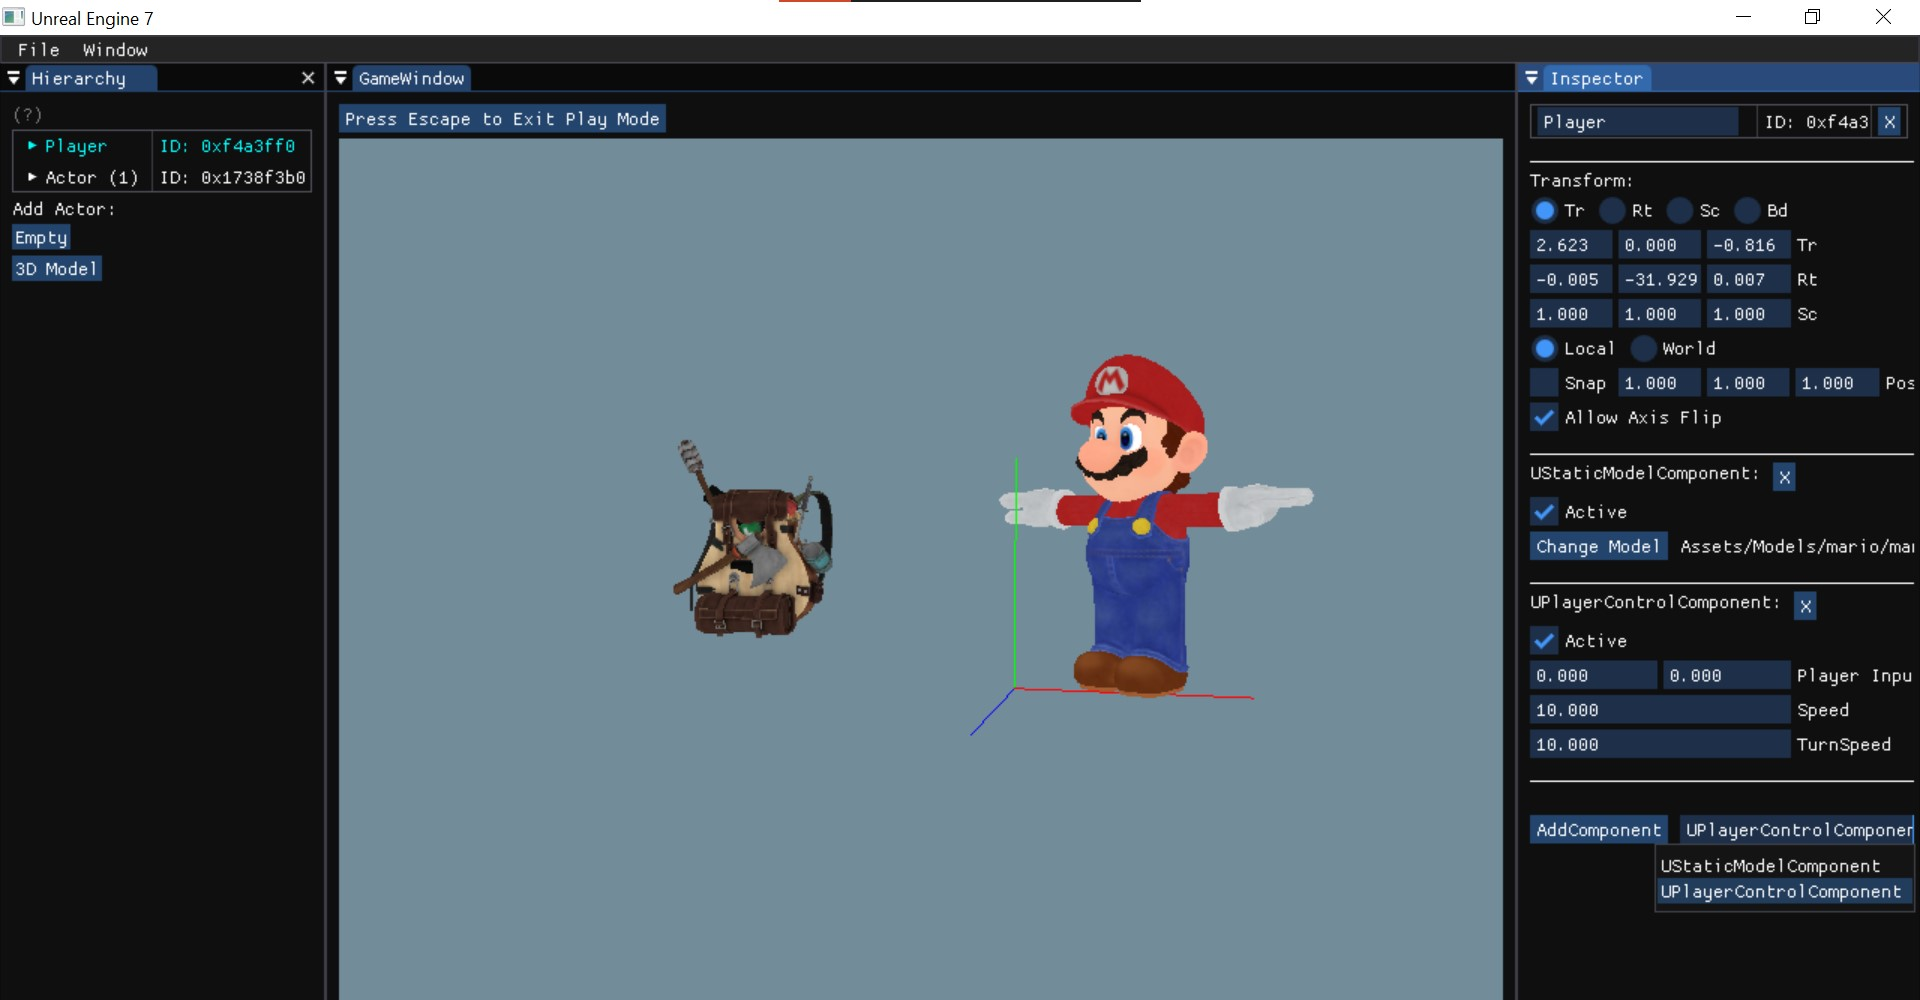
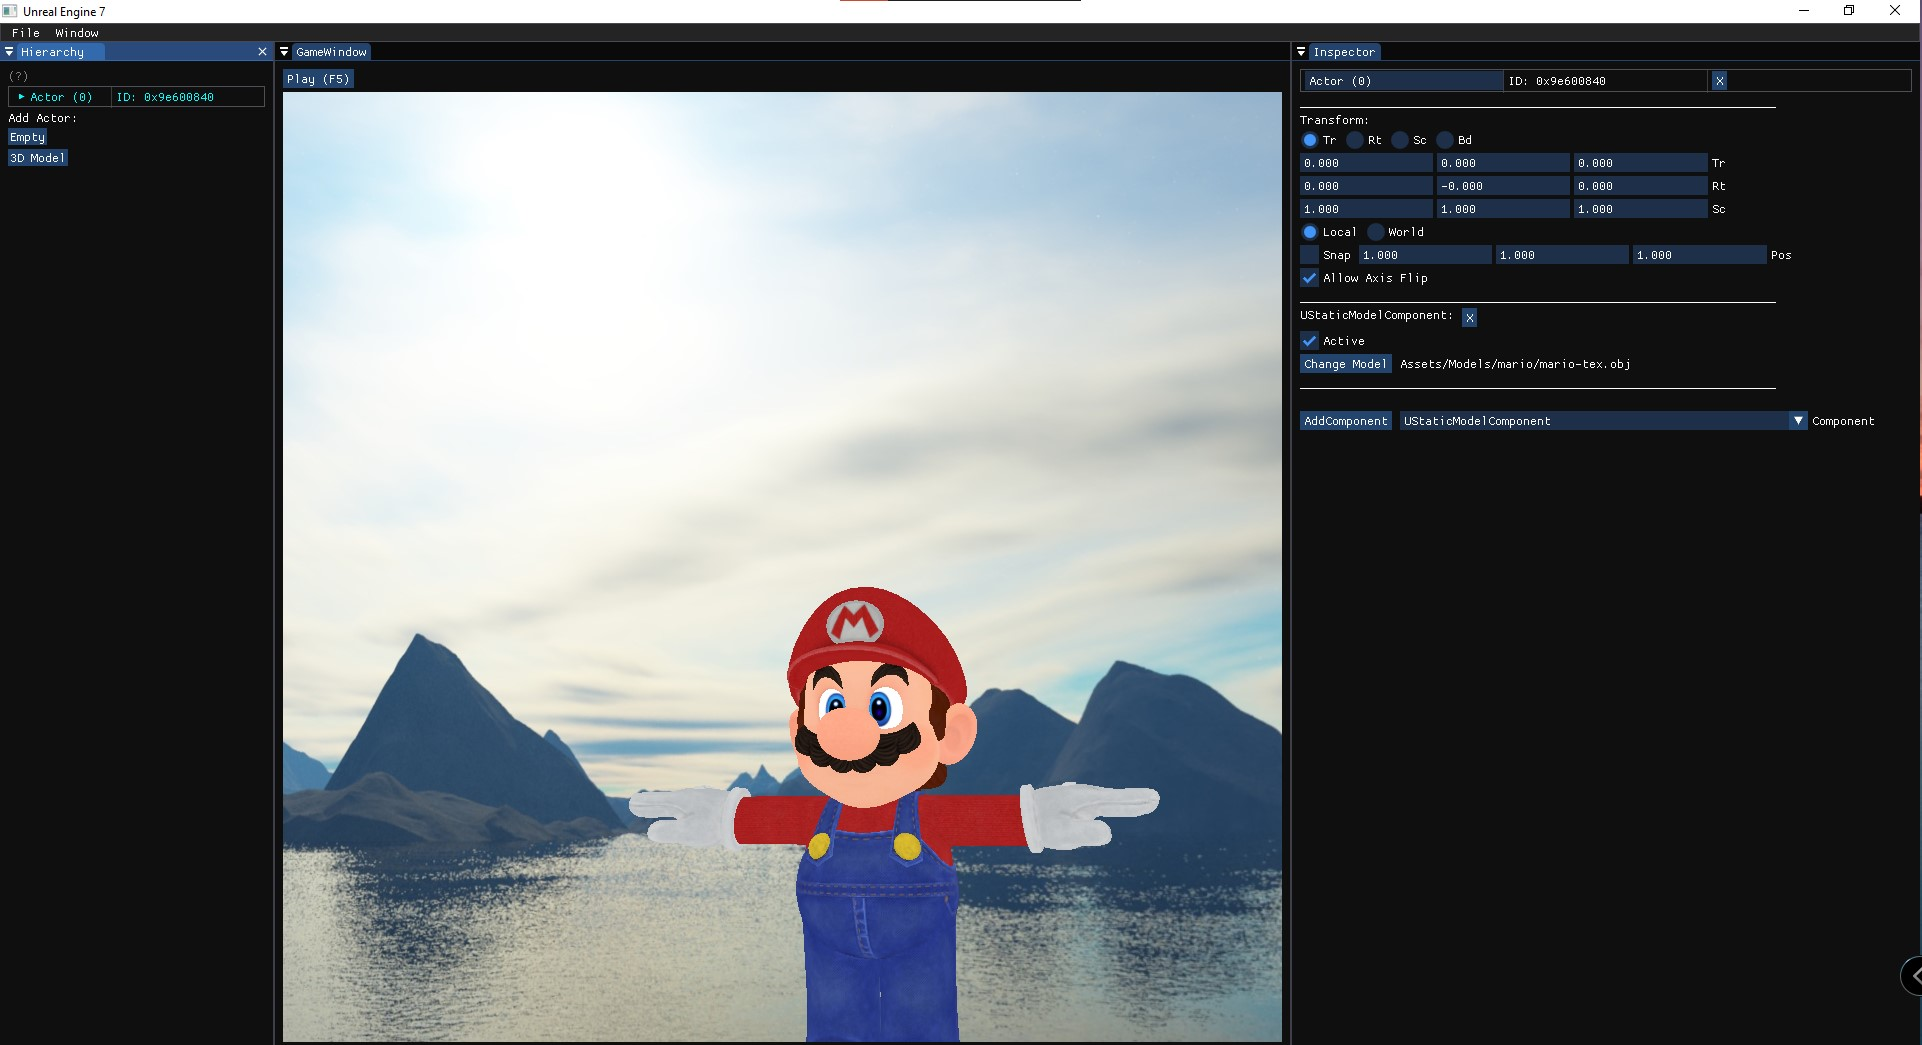
update showcase image

diff --git a/README.md b/README.md
@@ -73,6 +73,8 @@ To install x64 libraries, run:
 - [X] Register Components - Components can be registered to be added at run time!
 - [X] Simple Input Manager - Static instance access anywhere, also comes with a cool player controller component
 - [X] Standardized Component Inspection - leverage ImGui to get can't believe it's not unity
-- [ ] Start planning a simple game to help identify missing features - you can probably tell I've been adding more features since adding this :)
+- [X] Skybox - Simple implementation that makes a huge difference
+- [ ] Plan and Develop a New Resource / Content Manager Pipeline
+- [ ] Start planning a simple game to help identify missing features
 - [ ] Build Configuration to compile and build without editor tools
 - [ ] Physics System Integration
